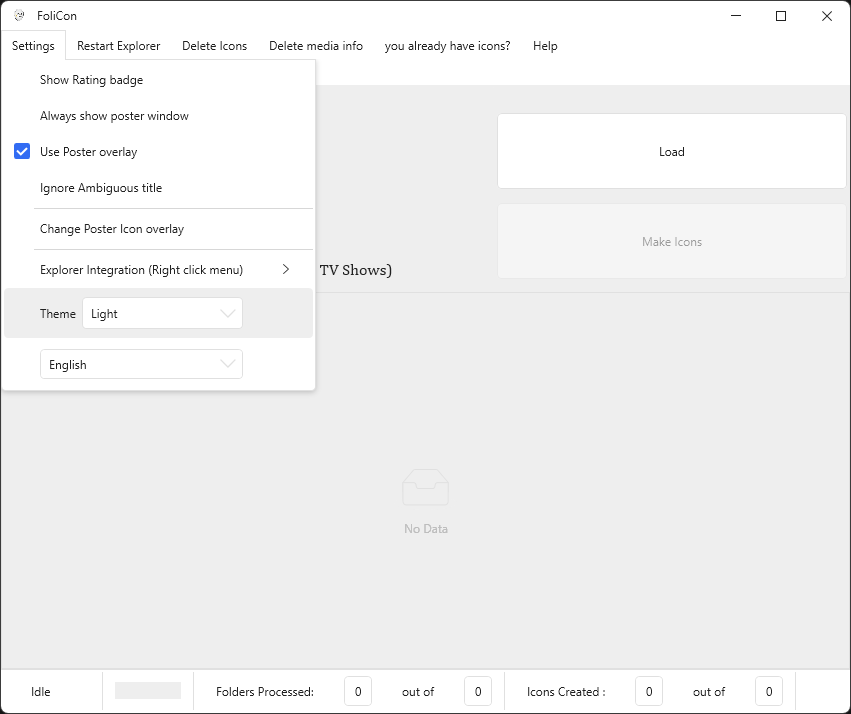
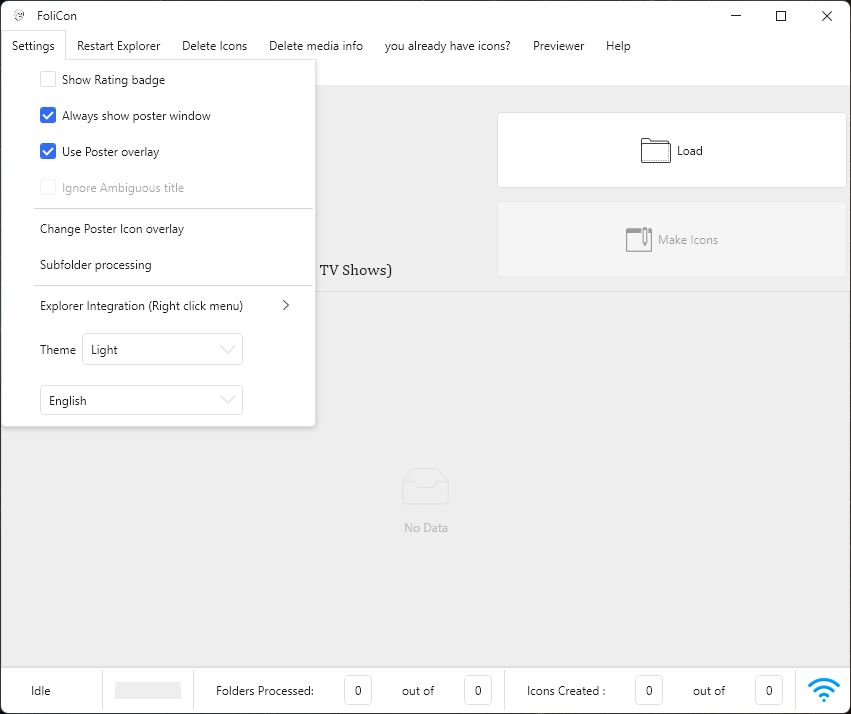
Add documentation for Subfolder processing
The documentation for the new Subfolder processing feature in FoliCon 4.2 has been added. This includes a topic explaining its functionality, as well as a mention and short description in the Settings Topic. It covers how to enable the feature, use provided patterns, and create custom ones.

diff --git a/docs/topics/Subfolder-processing.md b/docs/topics/Subfolder-processing.md
@@ -1,0 +1,28 @@
+# Subfolder processing
+
+<web-summary>
+Discover the power of Subfolder Processing, introduced in FoliCon 4.2. Learn to customize regular expression patterns to efficiently manage media in nested folders. Explore features allowing enabling, disabling, or adding your own patterns.
+</web-summary>
+
+
+Introduced in version 4.2, FoliCon can search for the media in the nested folders.
+You can enable this feature from the settings. and also have the option to set regular expression patterns to include or exclude folders.
+
+FoliCon provides 3 default patterns :
+<note>Although it's not possible to edit or delete the default patterns, they can definitely be turned on or off.</note>
+
+1. **\S+** - This pattern will include all the folders. (Enabled by default)
+2. **Season [0-9]{1,2} Episode [0-9]{1,2}** - This pattern will include folders with the format `Season 01 Episode 01`.
+3. **S[0-9]{1,2}E[0-9]** - This pattern will include folders with the format `S01E01`.
+
+You can also add your own patterns and remove or enable/disable as required.
+
+<img src="Subfolder-processing.png" border-effect="rounded" alt="Subfolder processing menu"/>
+
+Configure the patterns as required and click on the save button to add the patterns.
+Test the patterns by entering text into the test box after adding the patterns.
+
+Click on the `Enable subfolder processing` checkbox to enable/disable the feature.
+If you only want some patterns disabled, you can do that as well.
+
+<note>Subfolder processing is currently available only in Poster mode.</note>

diff --git a/docs/topics/Settings.md b/docs/topics/Settings.md
@@ -95,6 +95,21 @@ its default for poster mode starting with v3.7, it also contains the title of th
 * Liaher — Named after its designer [Liaher](https://www.deviantart.com/liaher), best for minimalistic look.
 * Faelpessoal Horizontal—Best for landscape posters, usually for Games artwork.
 
+## Subfolder processing
+<tldr>
+    <ui-path>Menu Bar | Settings | Subfolder processing</ui-path>
+    <p>Process media in subfolders</p>
+    <p>Default: disabled</p>
+</tldr>
+
+With the help of Subfolder processing, one can scan for media within nested directories.
+Suppose your directory structure looks like this: `Movies\The Dark Knight\`, `Movies\Action\John Wick\`,
+FoliCon would first check all media files within the John Wick subdirectory, then it will move up hierarchy and explore Action subdirectory and finally Movies directory.
+
+This can prove to be quite convenient for handling collections or series. Please note that this is currently only available in Poster mode.
+
+To learn more, visit [Subfolder processing](Subfolder-processing.md).
+
 ## Explorer context menu integration
 <tldr>
     <ui-path>Menu Bar | Settings | Explorer integration</ui-path>
